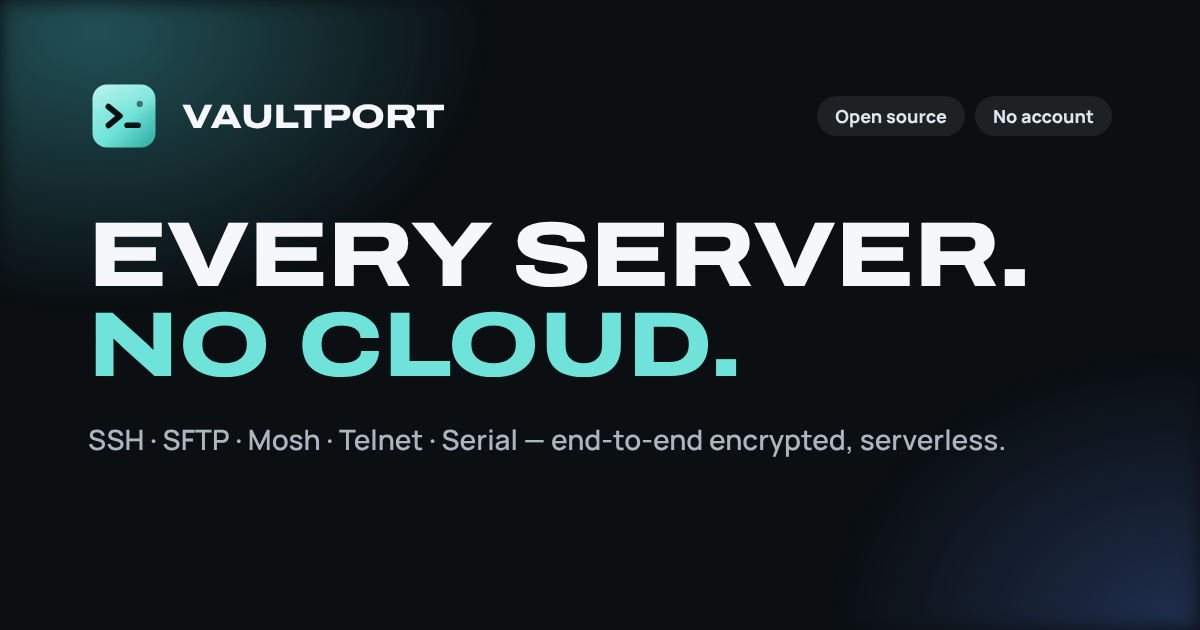
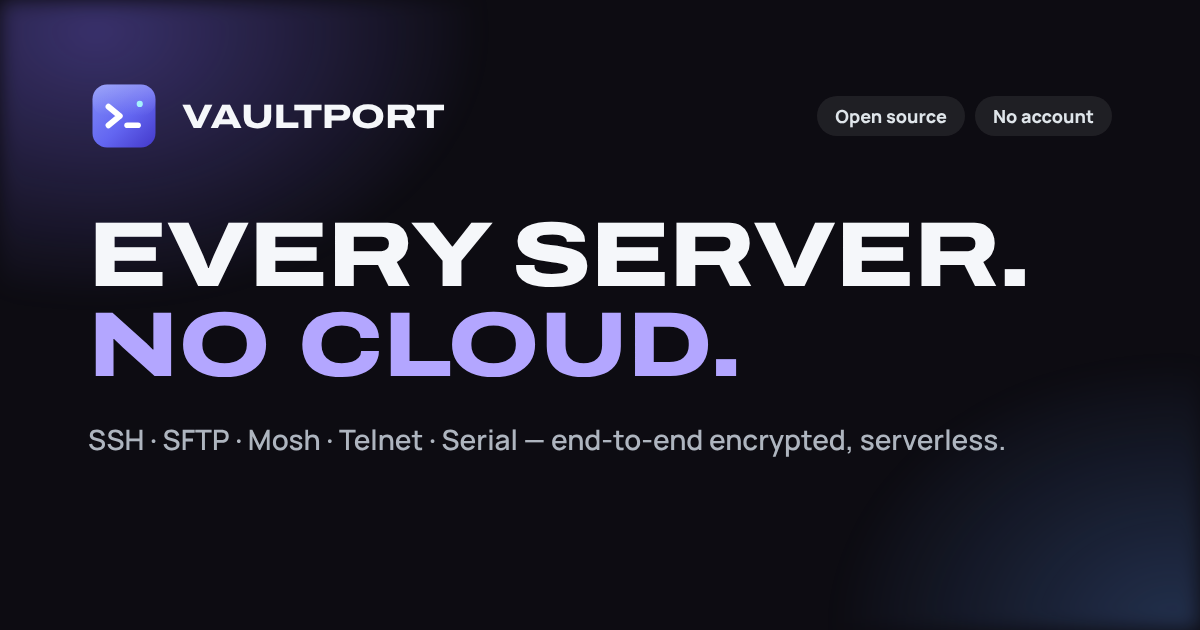
style(docs): use the Iris palette on the website
The site follows the app's new default preset: a soft lavender accent on
ink surfaces with indigo glows. The original indigo logo, favicon and
touch icon are restored since they match Iris, and the Open Graph card is
regenerated in the new colours.

Changed region(s): [[0.0617, 0.4825, 0.6167, 0.6032], [0.0, 0.0, 0.185, 0.2413]]

diff --git a/docs/.vitepress/theme/style.css b/docs/.vitepress/theme/style.css
@@ -1,7 +1,7 @@
 /* SPDX-License-Identifier: GPL-3.0-or-later */
 /*
- * Design tokens ("Pulse", Glacier preset). Mirrors the app (apps/desktop/src/styles/index.css):
- * cool slate surfaces, an icy aqua accent, Manrope for text, Archivo (wide) for display type
+ * Design tokens ("Pulse", Iris preset). Mirrors the app (apps/desktop/src/styles/index.css):
+ * ink surfaces, a soft lavender accent, Manrope for text, Archivo (wide) for display type
  * and JetBrains Mono for code. Dark is the default appearance.
  */
 
@@ -12,10 +12,10 @@
     'JetBrains Mono', ui-monospace, SFMono-Regular, Menlo, Monaco, Consolas, monospace;
   --sc-font-display: 'Archivo Variable', 'Manrope Variable', sans-serif;
 
-  --vp-c-brand-1: #0b6b63;
-  --vp-c-brand-2: #0b7d74;
-  --vp-c-brand-3: #0b7d74;
-  --vp-c-brand-soft: rgb(11 125 116 / 0.12);
+  --vp-c-brand-1: #4a37c9;
+  --vp-c-brand-2: #5b47e0;
+  --vp-c-brand-3: #5b47e0;
+  --vp-c-brand-soft: rgb(91 71 224 / 0.1);
 
   --vp-c-bg: #ffffff;
   --vp-c-bg-alt: #f5f6f8;
@@ -35,29 +35,29 @@
 
   --vp-home-hero-name-color: var(--vp-c-text-1);
 
-  --vp-custom-block-tip-bg: rgb(11 125 116 / 0.07);
+  --vp-custom-block-tip-bg: rgb(91 71 224 / 0.07);
   --vp-custom-block-tip-border: transparent;
   --vp-custom-block-tip-text: var(--vp-c-text-1);
-  --vp-local-search-highlight-bg: rgb(11 125 116 / 0.22);
+  --vp-local-search-highlight-bg: rgb(91 71 224 / 0.2);
 
   /* Landing page tokens */
-  --sc-accent: #0b7d74;
-  --sc-accent-text: #0b6b63;
+  --sc-accent: #5b47e0;
+  --sc-accent-text: #4a37c9;
   --sc-accent-fg: #ffffff;
-  --sc-accent-rgb: 11 125 116;
-  --sc-glow-1: 70 190 200;
-  --sc-glow-2: 80 120 220;
+  --sc-accent-rgb: 91 71 224;
+  --sc-glow-1: 130 110 255;
+  --sc-glow-2: 90 140 230;
   --sc-glow-strength: 0.16;
   --sc-primary: #0b0f12;
   --sc-primary-fg: #ffffff;
-  --sc-cyan: #0b7d74;
+  --sc-cyan: #5b47e0;
   --sc-success: #15803d;
   --sc-surface: #ffffff;
   --sc-surface-2: #f5f6f8;
   --sc-chip: rgb(11 15 18 / 0.06);
   --sc-border: rgb(11 15 18 / 0.09);
   --sc-border-strong: rgb(11 15 18 / 0.16);
-  --sc-glow: rgb(11 125 116 / 0.16);
+  --sc-glow: rgb(91 71 224 / 0.16);
   --sc-grid-line: rgb(11 15 18 / 0.05);
   --sc-shadow: 0 24px 60px -24px rgb(11 15 18 / 0.25), 0 0 0 1px var(--sc-border);
   --sc-radius: 24px;
@@ -65,15 +65,15 @@
 }
 
 .dark {
-  --vp-c-brand-1: #6fe3d9;
-  --vp-c-brand-2: #93ece4;
-  --vp-c-brand-3: #6fe3d9;
-  --vp-c-brand-soft: rgb(111 227 217 / 0.14);
+  --vp-c-brand-1: #b3a6ff;
+  --vp-c-brand-2: #c6bcff;
+  --vp-c-brand-3: #b3a6ff;
+  --vp-c-brand-soft: rgb(179 166 255 / 0.14);
 
-  --vp-c-bg: #0b0f12;
-  --vp-c-bg-alt: #090c0f;
-  --vp-c-bg-soft: #12181d;
-  --vp-c-bg-elv: #141a1f;
+  --vp-c-bg: #0d0c12;
+  --vp-c-bg-alt: #0a090e;
+  --vp-c-bg-soft: #15141c;
+  --vp-c-bg-elv: #17161f;
   --vp-c-text-1: #f5f7fa;
   --vp-c-text-2: #aeb5bf;
   --vp-c-text-3: #8a929d;
@@ -82,30 +82,30 @@
   --vp-c-default-soft: rgb(255 255 255 / 0.07);
 
   --vp-button-brand-bg: #ffffff;
-  --vp-button-brand-text: #0b0f12;
-  --vp-button-brand-hover-bg: #e9edf1;
-  --vp-button-brand-hover-text: #0b0f12;
+  --vp-button-brand-text: #0d0c12;
+  --vp-button-brand-hover-bg: #ebe9f2;
+  --vp-button-brand-hover-text: #0d0c12;
   --vp-button-brand-active-bg: #ffffff;
 
-  --vp-code-block-bg: #12181d;
-  --vp-custom-block-tip-bg: rgb(111 227 217 / 0.08);
-  --vp-local-search-highlight-bg: rgb(111 227 217 / 0.25);
+  --vp-code-block-bg: #15141c;
+  --vp-custom-block-tip-bg: rgb(179 166 255 / 0.08);
+  --vp-local-search-highlight-bg: rgb(179 166 255 / 0.25);
 
-  --sc-accent: #6fe3d9;
-  --sc-accent-text: #6fe3d9;
-  --sc-accent-fg: #041312;
-  --sc-accent-rgb: 111 227 217;
+  --sc-accent: #b3a6ff;
+  --sc-accent-text: #b3a6ff;
+  --sc-accent-fg: #0f0b1f;
+  --sc-accent-rgb: 179 166 255;
   --sc-glow-strength: 0.26;
   --sc-primary: #ffffff;
-  --sc-primary-fg: #0b0f12;
-  --sc-cyan: #6fe3d9;
+  --sc-primary-fg: #0d0c12;
+  --sc-cyan: #b3a6ff;
   --sc-success: #4ade80;
-  --sc-surface: #12181d;
-  --sc-surface-2: #141a1f;
+  --sc-surface: #15141c;
+  --sc-surface-2: #17161f;
   --sc-chip: rgb(255 255 255 / 0.07);
   --sc-border: rgb(255 255 255 / 0.07);
   --sc-border-strong: rgb(255 255 255 / 0.13);
-  --sc-glow: rgb(111 227 217 / 0.22);
+  --sc-glow: rgb(179 166 255 / 0.22);
   --sc-grid-line: rgb(255 255 255 / 0.04);
   --sc-shadow: 0 40px 80px -32px rgb(0 0 0 / 0.75), 0 0 0 1px var(--sc-border);
 }

diff --git a/docs/.vitepress/theme/components/FeatureBento.vue b/docs/.vitepress/theme/components/FeatureBento.vue
@@ -570,7 +570,7 @@ const QR_MODULES = (() => {
   margin: 0;
   padding: 6px 16px;
   border-radius: 14px;
-  background: #12181d;
+  background: #15141c;
   box-shadow: inset 0 0 0 1px rgb(255 255 255 / 0.07);
   font-family: var(--vp-font-family-mono);
   font-size: 12.5px;
@@ -769,7 +769,7 @@ const QR_MODULES = (() => {
 .ws {
   overflow: hidden;
   border-radius: 14px;
-  background: #12181d;
+  background: #15141c;
   box-shadow: inset 0 0 0 1px rgb(255 255 255 / 0.07);
 }
 
@@ -814,7 +814,7 @@ const QR_MODULES = (() => {
 .ws-term {
   overflow: hidden;
   padding: 14px 12px;
-  background: #12181d;
+  background: #15141c;
   color: #d8dcea;
   font-size: 12px;
   white-space: nowrap;
@@ -836,7 +836,7 @@ const QR_MODULES = (() => {
 .ac-input {
   padding: 10px 12px;
   border-radius: 10px;
-  background: #12181d;
+  background: #15141c;
   box-shadow: inset 0 0 0 1px rgb(255 255 255 / 0.07);
   color: #d8dcea;
   font-size: 13px;
@@ -976,7 +976,7 @@ const QR_MODULES = (() => {
   padding: 9px 12px;
   overflow: hidden;
   border-radius: 9px;
-  background: #12181d;
+  background: #15141c;
   box-shadow: inset 0 0 0 1px rgb(255 255 255 / 0.07);
   color: #7be2ee;
   font-size: 12.5px;
@@ -1032,7 +1032,7 @@ const QR_MODULES = (() => {
   padding: 10px 12px;
   overflow: hidden;
   border-radius: 10px;
-  background: #12181d;
+  background: #15141c;
   box-shadow: inset 0 0 0 1px rgb(255 255 255 / 0.07);
   color: #7be2ee;
   font-size: 12px;
@@ -1131,7 +1131,7 @@ const QR_MODULES = (() => {
   width: 210px;
   padding: 10px;
   border-radius: 30px;
-  background: #0b0f12;
+  background: #0d0c12;
   box-shadow:
     0 0 0 1px rgb(255 255 255 / 0.12),
     0 0 0 6px #1a1e2b,
@@ -1143,7 +1143,7 @@ const QR_MODULES = (() => {
   padding: 16px 12px;
   overflow: hidden;
   border-radius: 20px 20px 6px 6px;
-  background: #12181d;
+  background: #15141c;
   font-size: 10.5px;
   line-height: 1.75;
 }

diff --git a/docs/.vitepress/theme/components/AppWindow.vue b/docs/.vitepress/theme/components/AppWindow.vue
@@ -70,15 +70,15 @@ const snippets = [
 <style scoped>
 .window {
   /* The window always shows the dark app, so it keeps the dark accent in both site themes. */
-  --sc-accent: #6fe3d9;
-  --sc-accent-text: #6fe3d9;
-  --sc-accent-rgb: 111 227 217;
-  --sc-accent-fg: #041312;
+  --sc-accent: #b3a6ff;
+  --sc-accent-text: #b3a6ff;
+  --sc-accent-rgb: 179 166 255;
+  --sc-accent-fg: #0f0b1f;
   position: relative;
   margin: 0;
   overflow: hidden;
   border-radius: 18px;
-  background: #12181d;
+  background: #15141c;
   box-shadow:
     0 0 0 1px rgb(255 255 255 / 0.09),
     0 1px 0 0 rgb(255 255 255 / 0.06) inset,
@@ -211,7 +211,7 @@ const snippets = [
 .term {
   min-width: 0;
   background:
-    radial-gradient(120% 80% at 0% 0%, rgb(var(--sc-accent-rgb) / 0.08), transparent 60%), #12181d;
+    radial-gradient(120% 80% at 0% 0%, rgb(var(--sc-accent-rgb) / 0.08), transparent 60%), #15141c;
 }
 
 .panel {
@@ -227,7 +227,7 @@ const snippets = [
   margin-bottom: 14px;
   padding: 3px;
   border-radius: 9px;
-  background: #0b0f12;
+  background: #0d0c12;
 }
 
 .ptab {

diff --git a/docs/.vitepress/config.ts b/docs/.vitepress/config.ts
@@ -60,7 +60,7 @@ export default defineConfig({
     ['link', { rel: 'icon', type: 'image/svg+xml', href: `${base}logo.svg` }],
     ['link', { rel: 'icon', type: 'image/png', sizes: '32x32', href: `${base}favicon-32.png` }],
     ['link', { rel: 'apple-touch-icon', sizes: '180x180', href: `${base}apple-touch-icon.png` }],
-    ['meta', { name: 'theme-color', content: '#0b0f12' }],
+    ['meta', { name: 'theme-color', content: '#0d0c12' }],
     ['meta', { name: 'color-scheme', content: 'dark light' }],
     ['meta', { property: 'og:type', content: 'website' }],
     ['meta', { property: 'og:site_name', content: NAME }],
